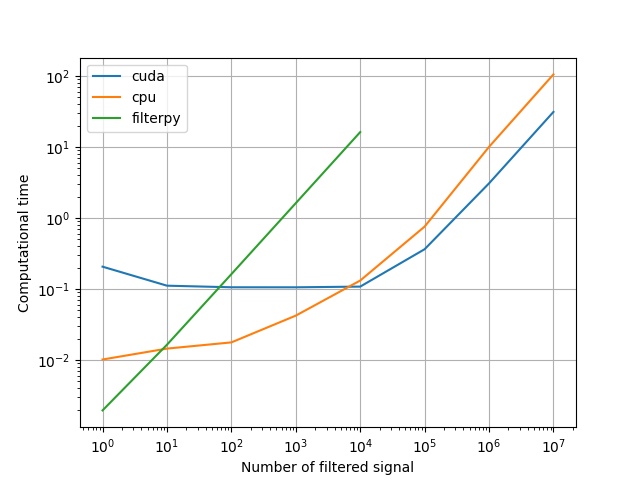
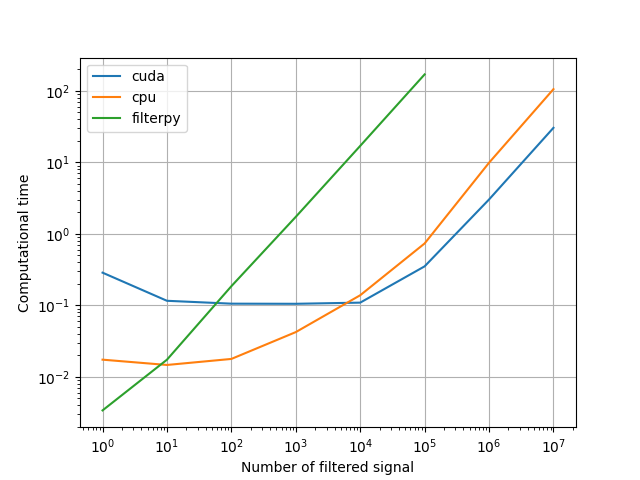
Add a batch_filter method + support of `to` PyTorch api
A GaussianState or a KF can be sent to cuda/cpu/float16/32/64 easily with 'to' method.
batch_filer will handle the predict/update cycle and is resilient to the dtype/device used.

predict/update/project will fail if the wrong dtype or device is used

diff --git a/example/cvkf.py b/example/cvkf.py
@@ -7,6 +7,7 @@ import matplotlib.pyplot as plt
 import numpy as np
 import torch
 import tqdm
+import yaml
 
 import filterpy.common  # type: ignore
 import filterpy.kalman  # type: ignore
@@ -103,42 +104,53 @@ def simulate_trajectory(
     dims = batch, dim, 1  # Add a trailing dimension
     x, vel = torch.zeros(dims), torch.zeros(dims)
     max_vel = 5.0
-    traj, measured = torch.empty((n, *dims)), torch.empty((n, *dims))
+    traj, measures = torch.empty((n, *dims)), torch.empty((n, *dims))
     for t in range(n):
         vel = torch.clip(vel + torch.randn(dims) * process_std, -max_vel, max_vel)
         x = x + vel * dt
         traj[t] = x
-        measured[t] = x + torch.randn(dims) * measurement_std
-    return traj, measured
+        measures[t] = x + torch.randn(dims) * measurement_std
+    return traj, measures
 
 
 def batch_filter_filerpy(
-    kf: torch_kf.KalmanFilter, initial_state: torch_kf.GaussianState, measured: torch.Tensor, save=True
+    kf: torch_kf.KalmanFilter,
+    initial_state: torch_kf.GaussianState,
+    measures: torch.Tensor,
+    update_first=True,
+    return_all=True,
 ) -> torch_kf.GaussianState:
-    """Filter a batch of signal in time with filterpy"""
-    measured_np = measured.numpy().astype(np.float64)
+    """Filter a batch of signal in time with filterpy
 
-    if save:
-        estimate = np.empty((measured.shape[0], measured.shape[1], kf.state_dim, 1))  # Save estimate (T, B, D, 1)
-        cov = np.empty((measured.shape[0], measured.shape[1], kf.state_dim, kf.state_dim))  # And cov (T, B, D, D)
+    See `torch_kf.KalmanFilter.batch_filter`
+    """
+    # Convert measures here (less overhead than on the fly, but more memory intensive)
+    measures_np = measures.numpy().astype(np.float64)
+    x0 = initial_state.mean.numpy().astype(np.float64)
+    p0 = initial_state.covariance.numpy().astype(np.float64)
 
-    for i in range(measured.shape[1]):  # Go through the batch one by one as filterpy do not support batch computation
+    if return_all:
+        estimate = np.empty((measures.shape[0], measures.shape[1], kf.state_dim, 1))  # Save estimate (T, B, D, 1)
+        cov = np.empty((measures.shape[0], measures.shape[1], kf.state_dim, kf.state_dim))  # And cov (T, B, D, D)
+
+    for i in range(
+        measures_np.shape[1]
+    ):  # Go through the batch one by one as filterpy do not support batch computation
         # Initialize one kf by trajectory
-        # There is some overhead for filterpy but this is negligible before the real work
-        x0 = initial_state.mean[i].numpy().astype(np.float64)
-        p0 = initial_state.covariance[i].numpy().astype(np.float64)
-        kf_fp = convert_to_filterpy(kf, x0, p0)
+        # There is some overhead for filterpy but this is negligible before the real computations
+        kf_fp = convert_to_filterpy(kf, x0[i], p0[i])
 
-        for t, z in enumerate(measured_np[:, i]):
-            kf_fp.update(z)  # In this scenario let's first update then predict
+        for t, z in enumerate(measures_np[:, i]):
+            if t or not update_first:  # Do not predict on the first t /
+                kf_fp.predict()
 
-            if save:
+            kf_fp.update(z)
+
+            if return_all:
                 estimate[t, i] = kf_fp.x
                 cov[t, i] = kf_fp.P
 
-            kf_fp.predict()
-
-    if save:
+    if return_all:
         return torch_kf.GaussianState(
             torch.tensor(estimate, dtype=torch.float32), torch.tensor(cov, dtype=torch.float32)
         )
@@ -148,52 +160,16 @@ def batch_filter_filerpy(
     )
 
 
-def batch_filter(
-    kf: torch_kf.KalmanFilter,
-    initial_state: torch_kf.GaussianState,
-    measured: torch.Tensor,
-    device=torch.device("cpu"),
-    save=True,
-) -> torch_kf.GaussianState:
-    """Filter a batch of signal in time with torch-kf"""
-
-    # Send everything to device if it is not already done
-    state = torch_kf.GaussianState(initial_state.mean.to(device), initial_state.covariance.to(device))
-
-    kf = torch_kf.KalmanFilter(
-        kf.process_matrix.to(device),
-        kf.measurement_matrix.to(device),
-        kf.process_noise.to(device),
-        kf.measurement_noise.to(device),
-    )
-
-    if save:
-        estimate = torch.empty((measured.shape[0], measured.shape[1], kf.state_dim, 1))  # Save estimate (T, B, D, 1)
-        cov = torch.empty((measured.shape[0], measured.shape[1], kf.state_dim, kf.state_dim))  # And cov (T, B, D, D)
-
-    for t, z in enumerate(measured):
-        state = kf.update(state, z.to(device))  # In this scenario let's first update then predict
-
-        if save:
-            estimate[t] = state.mean.cpu()
-            cov[t] = state.covariance.cpu()
-
-        state = kf.predict(state)
-
-    if save:
-        return torch_kf.GaussianState(estimate, cov)
-
-    return torch_kf.GaussianState(state.mean.cpu(), state.covariance.cpu())
-
-
 def main():
     """Check that filterpy and our code produces the same results
 
     And investigate the computationnal time as a function of the number of signals to filter.
+
+    It can take from a few minutes to half an hour to run (You can reduce dim or batches to run a subset of computations)
     """
     process_std = 1.5
     measurement_std = 3.0
-    dim = 2  # 1D
+    dim = 2  # 2D
     order = 1  # CVKF
     timesteps = 100
     batches = [10**i for i in range(8)]
@@ -208,42 +184,44 @@ def main():
     }
 
     for batch in tqdm.tqdm(batches):
-        traj, measured = simulate_trajectory(measurement_std, process_std, n=timesteps, batch=batch, dim=dim)
+        traj, measures = simulate_trajectory(measurement_std, process_std, n=timesteps, batch=batch, dim=dim)
         initial_state = torch_kf.GaussianState(  # Initial state with large covariance (unknown position)
             torch.zeros(batch, kf.state_dim, 1),
             torch.eye(kf.state_dim)[None].expand(batch, kf.state_dim, kf.state_dim) * 500,
         )
 
-        print(batch)
-
         t = time.time()
-        batch_filter(kf, initial_state, measured, torch.device("cpu"), save=False)
+        kf.batch_filter(initial_state, measures, update_first=True)
         timings["cpu"].append(time.time() - t)
 
-        print("cpu check")
-
         t = time.time()
-        batch_filter(kf, initial_state, measured, torch.device("cuda"), save=False)
+        # Initial state on measured will be converted on the fly in `batch_filter`
+        # Could convert measures here (probably faster), but requires more cuda memory.
+        kf.to(torch.device("cuda")).batch_filter(initial_state, measures, update_first=True)
         timings["cuda"].append(time.time() - t)
 
-        print("cuda check")
-
-        if batch < 10**5:
+        if batch < 10**6:
             t = time.time()
-            batch_filter_filerpy(kf, initial_state, measured, save=False)
+            batch_filter_filerpy(kf, initial_state, measures, update_first=True)
             timings["filterpy"].append(time.time() - t)
+
+    print(yaml.dump(timings))
 
     print("Running with batch 50 and 2000 timesteps to ensure methods are equivalent")
     batch = 50
-    traj, measured = simulate_trajectory(measurement_std, process_std, n=2000, batch=batch, dim=dim)
+    traj, measures = simulate_trajectory(measurement_std, process_std, n=2000, batch=batch, dim=dim)
     initial_state = torch_kf.GaussianState(  # Initial state with large covariance (unknown position)
         torch.zeros(batch, kf.state_dim, 1),
         torch.eye(kf.state_dim)[None].expand(batch, kf.state_dim, kf.state_dim) * 500,
     )
 
-    state_cpu = batch_filter(kf, initial_state, measured, torch.device("cpu"), save=True)
-    state_cuda = batch_filter(kf, initial_state, measured, torch.device("cuda"), save=True)
-    state_filterpy = batch_filter_filerpy(kf, initial_state, measured, save=True)
+    state_cpu = kf.batch_filter(initial_state, measures, update_first=True, return_all=True)
+    state_cuda = (
+        kf.to(torch.device("cuda"))
+        .batch_filter(initial_state, measures, update_first=True, return_all=True)
+        .to(torch.device("cpu"))
+    )
+    state_filterpy = batch_filter_filerpy(kf, initial_state, measures, update_first=True, return_all=True)
 
     print(
         f"Cuda vs Cpu: Diff on mean: {(state_cuda.mean - state_cpu.mean).abs().mean()}."
@@ -274,8 +252,8 @@ def main():
     if dim == 2:  # Can plot in 2d
         plt.plot(traj[:max_t, :max_n, 0, 0], traj[:max_t, :max_n, 1, 0], label="True trajectory")
         plt.plot(
-            measured[:max_t, :max_n, 0, 0],
-            measured[:max_t, :max_n, 1, 0],
+            measures[:max_t, :max_n, 0, 0],
+            measures[:max_t, :max_n, 1, 0],
             "o",
             markersize=1.0,
             label="Observerd trajectory",
@@ -287,7 +265,7 @@ def main():
         plt.ylabel("y")
     else:  # Simply plot the first dim
         plt.plot(traj[:max_t, :max_n, 0, 0], label="True trajectory (x)")
-        plt.plot(measured[:max_t, :max_n, 0, 0], "o", markersize=1.0, label="Observerd trajectory (x)")
+        plt.plot(measures[:max_t, :max_n, 0, 0], "o", markersize=1.0, label="Observerd trajectory (x)")
         plt.plot(state_cpu.mean[:max_t, :max_n, 0, 0], label="Filtered trajectory (x)")
         plt.xlabel("t")
         plt.ylabel("x")

diff --git a/torch_kf/kalman_filter.py b/torch_kf/kalman_filter.py
@@ -1,5 +1,5 @@
 import dataclasses
-from typing import Optional
+from typing import Optional, overload
 
 import torch
 import torch.linalg
@@ -31,6 +31,27 @@ class GaussianState:
     mean: torch.Tensor
     covariance: torch.Tensor
     precision: Optional[torch.Tensor] = None
+
+    @overload
+    def to(self, dtype: torch.dtype) -> "GaussianState": ...
+
+    @overload
+    def to(self, device: torch.device) -> "GaussianState": ...
+
+    def to(self, fmt):
+        """Convert a GaussianState to a specific device or dtype
+
+        Args:
+            fmt (torch.dtype | torch.device): Memory format to send the state to.
+
+        Returns:
+            GaussianState: The GaussianState with the right format
+        """
+        return GaussianState(
+            self.mean.to(fmt),
+            self.covariance.to(fmt),
+            self.precision.to(fmt) if self.precision is not None else None,
+        )
 
     def mahalanobis_squared(self, measure: torch.Tensor) -> torch.Tensor:
         """Computes the squared mahalanobis distance of given measure
@@ -149,6 +170,7 @@ class KalmanFilter:
         process_noise: torch.Tensor,
         measurement_noise: torch.Tensor,
     ) -> None:
+        # We do not check that any device/dtype/shape are shared (but they should be)
         self.process_matrix = process_matrix
         self.measurement_matrix = measurement_matrix
         self.process_noise = process_noise
@@ -164,6 +186,38 @@ class KalmanFilter:
     def measure_dim(self) -> int:
         """Dimension of the measured variable"""
         return self.measurement_matrix.shape[0]
+
+    @property
+    def device(self) -> torch.device:
+        """Device of the Kalman filter"""
+        return self.process_matrix.device
+
+    @property
+    def dtype(self) -> torch.dtype:
+        """Dtype of the Kalman filter"""
+        return self.process_matrix.dtype
+
+    @overload
+    def to(self, dtype: torch.dtype) -> "KalmanFilter": ...
+
+    @overload
+    def to(self, device: torch.device) -> "KalmanFilter": ...
+
+    def to(self, fmt):
+        """Convert a Kalman filter to a specific device or dtype
+
+        Args:
+            fmt (torch.dtype | torch.device): Memory format to send the filter to.
+
+        Returns:
+            KalmanFilter: The filter with the right format
+        """
+        return KalmanFilter(
+            self.process_matrix.to(fmt),
+            self.measurement_matrix.to(fmt),
+            self.process_noise.to(fmt),
+            self.measurement_noise.to(fmt),
+        )
 
     def predict(
         self,
@@ -335,7 +389,7 @@ class KalmanFilter:
             measurement_matrix = torch.randn(10, 1, 3, 5)  # Compatible with (50, 5, 5)
             measurement_noise = torch.randn(10, 1, 3, 3)  # Use different noises
             # We have 50 measurements and we update each state/model with every measurements
-            measure = torch.randn(50, 1, 50, 3, 1)
+            measure = torch.randn(50, 1, 1, 3, 1)
 
             new_state = kf.update(state, measure, None, measurement_matrix, measurement_noise)
             new_state.mean  # Shape: (50, 10, 50, 5, 1)  # Update for each measure, model and previous state
@@ -379,6 +433,70 @@ class KalmanFilter:
         covariance = state.covariance - kalman_gain @ measurement_matrix @ state.covariance
 
         return GaussianState(mean, covariance)
+
+    def batch_filter(
+        self, state: GaussianState, measures: torch.Tensor, update_first=False, return_all=False
+    ) -> GaussianState:
+        """Filter a batch of signal with given measures
+
+        It handles most of the default use-cases but it remains very standard, you probably will have to rewrite
+        it for a specific problem.
+
+        For instance:
+        It only works if states and measures are already aligned (associated).
+        It is memory intensive as it requires the input (and output if `return_all`) to be stored in a tensor.
+        It does not support changing the Kalman model (F, Q, H, R) in time.
+
+        Again all of this can be done manually using this function as a baseline for a more precise code.
+
+        Args:
+            state (GaussianState): Initial state to start filtering from
+            measures (torch.Tensor): Measures in time
+                Shape: (T, *, dim_z, 1)
+            update_first (bool): Only update for the first timestep, then goes back to the predict / update cycle.
+                Default: False
+            return_all (bool): The state returns contains all states after an update step.
+                To access predicted states, you either have to run again `predict` on the result, or do it manually.
+                Default: False (Returns only the last state)
+
+        Returns:
+            GaussianState: The final updated state or all the update states (in a single GaussianState object)
+        """
+        # Convert state to the right dtype and device
+        state = state.to(self.dtype).to(self.device)
+
+        saver: GaussianState
+
+        for t, measure in enumerate(measures):
+            if t or not update_first:  # Do not predict on the first t /
+                state = self.predict(state)
+
+            # Convert on the fly the measure to avoid to store them all in cuda memory
+            # To avoid this overhead, the conversion can be done by the user before calling `batch_filter`
+            state = self.update(state, measure.to(self.dtype).to(self.device, non_blocking=True))  # Update
+
+            if return_all:
+                if t == 0:  # Create the saver now that we know the size of an updated state
+                    # In this implementation, it cannot evolve in time, but it still supports
+                    # to have a change from the initial_state shape to the first updated state (with the first measure)
+                    saver = GaussianState(
+                        torch.empty(
+                            (measures.shape[0], *state.mean.shape), dtype=state.mean.dtype, device=state.mean.device
+                        ),
+                        torch.empty(
+                            (measures.shape[0], *state.covariance.shape),
+                            dtype=state.mean.dtype,
+                            device=state.mean.device,
+                        ),
+                    )
+
+                saver.mean[t] = state.mean
+                saver.covariance[t] = state.covariance
+
+        if return_all:
+            return saver
+
+        return state
 
     def __repr__(self) -> str:
         return "\n".join(

diff --git a/torch_kf/__init__.py b/torch_kf/__init__.py
@@ -1,4 +1,4 @@
 from .kalman_filter import GaussianState, KalmanFilter
 
 __all__ = ["GaussianState", "KalmanFilter"]
-__version__ = "0.0.2"
+__version__ = "0.0.3"
